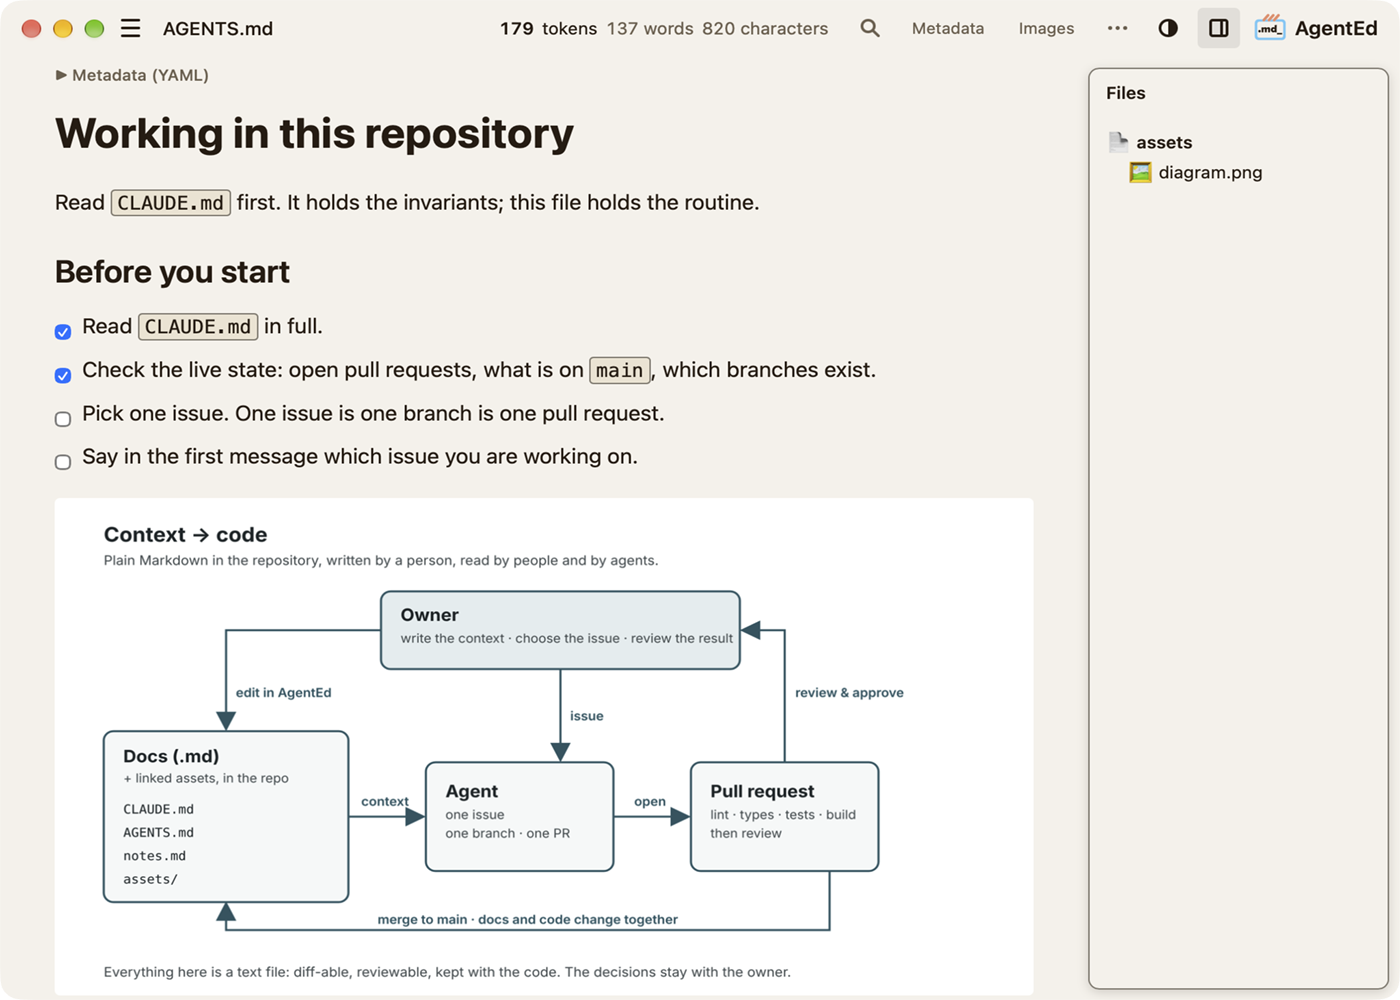
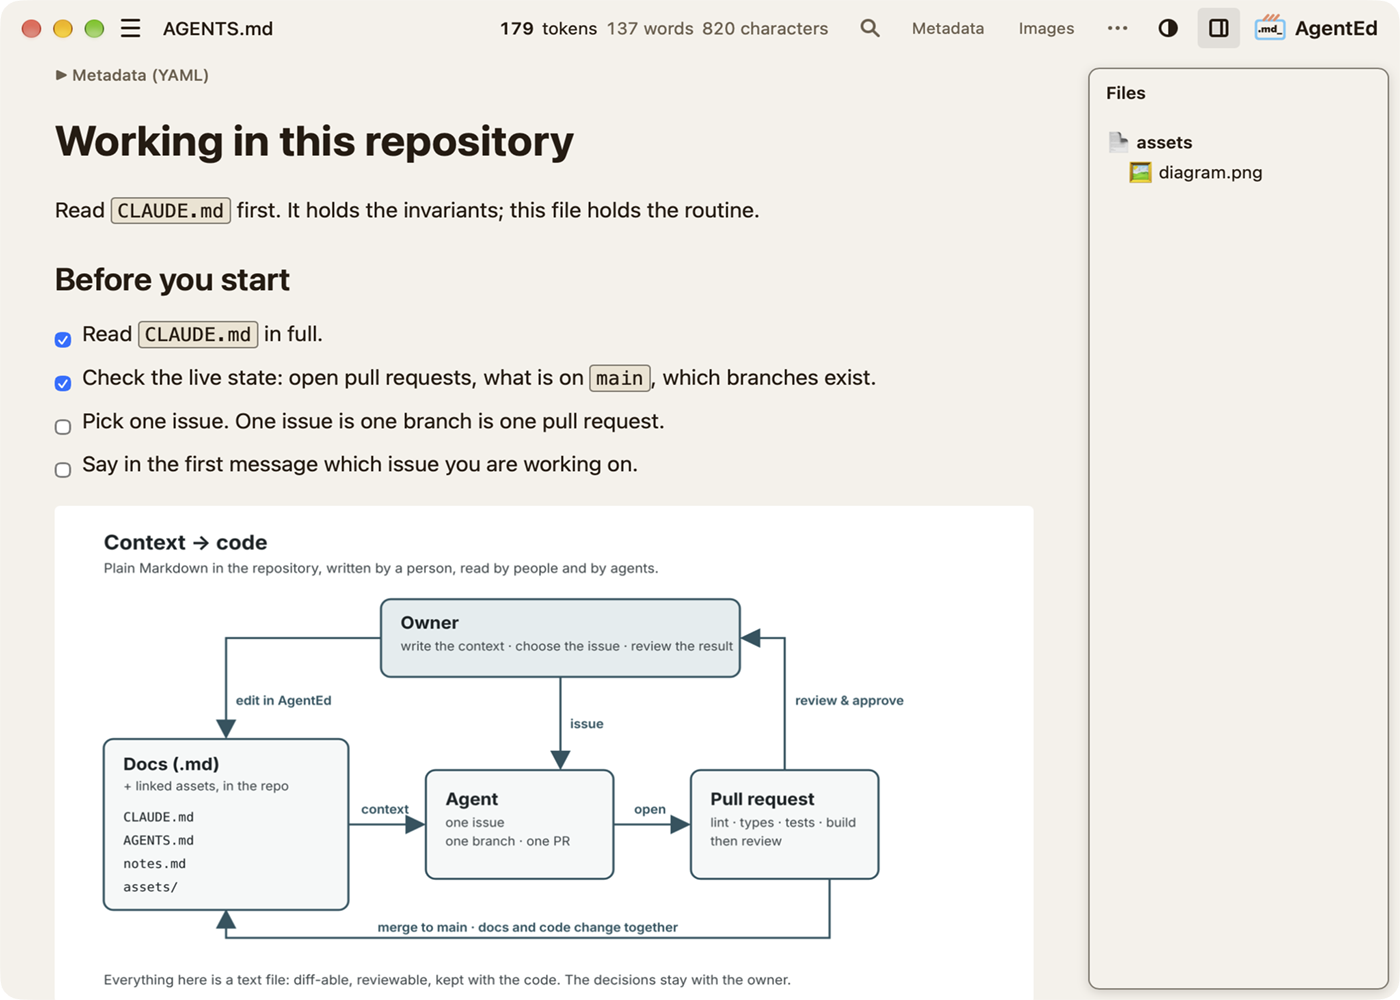
docs: new README images, and the documents pass of 1.0.2
For #713, the section added on 2026-11-14.

- docs/images: claude-md.gif (700 x 500, 120 frames, 30 s), claude-md.png
  and agents-checklist-diagram.png (1400 x 1000) replaced with the files
  the owner gave on 2026-11-14; the alt text of the GIF describes what it
  now shows.
- The 1.0.1 file names become 1.0.2: the README release line, table and
  the Windows, macOS and Linux commands; the three checksum commands of
  docs/INSTALL-RESTRICTED-NETWORKS.md; the placeholder of bug_report.yml.
- A For 1.0.2 paragraph in the install document, each point read from
  git diff v1.0.1 v1.0.2, with what the owner measured on 1.0.2 itself on
  2026-11-14. The README sentence on the macOS steps names 1.0.2, on the
  same Apple M2 on macOS 27.

diff --git a/README.md b/README.md
@@ -28,7 +28,7 @@ Create and refine notes, AI instructions, project context, and knowledge documen
 </div>
 
 <p align="center">
-  <img src="docs/images/claude-md.gif" width="700" alt="AgentEd formatting and editing CLAUDE.md with a live token estimate, then editing YAML in the Metadata panel of notes.md.">
+  <img src="docs/images/claude-md.gif" width="700" alt="AgentEd editing CLAUDE.md, with a sentence made bold from the floating toolbar and another typed while the token estimate updates; then a YAML value of SKILL.md changed in the Metadata panel; then AGENTS.md with its tasks ticked, a diagram inserted from the Insert menu and listed in the Files panel under assets, and the appearance menu open.">
 </p>
 
 [**See AgentEd in action · 1 minute**](https://agentedapp.com/#demo)
@@ -49,15 +49,15 @@ AgentEd helps you prepare documents for use with AI tools. **It does not include
 
 ## Download and get started
 
-**AgentEd 1.0.1** is available for Windows x64 and macOS on Apple Silicon, with an experimental package for Linux x86-64.
+**AgentEd 1.0.2** is available for Windows x64 and macOS on Apple Silicon, with an experimental package for Linux x86-64.
 
 [**Download the latest release**](https://github.com/cgxopen/AgentEd/releases/latest) for installers, release notes, and SHA-256 checksums. Earlier versions are on the [releases page](https://github.com/cgxopen/AgentEd/releases).
 
-| Platform | Installer for 1.0.1 | Status |
+| Platform | Installer for 1.0.2 | Status |
 |---|---|---|
-| Windows x64 | `AgentEd_1.0.1_x64-setup.exe` | Release |
-| macOS, Apple Silicon | `AgentEd_1.0.1_aarch64.dmg` | Release |
-| Linux x86-64 | `AgentEd_1.0.1_amd64.deb` | Experimental |
+| Windows x64 | `AgentEd_1.0.2_x64-setup.exe` | Release |
+| macOS, Apple Silicon | `AgentEd_1.0.2_aarch64.dmg` | Release |
+| Linux x86-64 | `AgentEd_1.0.2_amd64.deb` | Experimental |
 
 Windows is the primary development and testing platform. The macOS build is for Apple Silicon Macs; Intel-based Macs are not supported. The Linux package has been tested on Ubuntu 24.04 with GNOME and Wayland.
 
@@ -120,7 +120,7 @@ The steps below apply to warnings about an unrecognised or unverified applicatio
 <details>
 <summary><strong>Show Windows installation steps</strong></summary>
 
-Run `AgentEd_1.0.1_x64-setup.exe`.
+Run `AgentEd_1.0.2_x64-setup.exe`.
 
 The installer is not digitally signed. If Microsoft Defender SmartScreen displays **Windows protected your PC**, and you have verified the source and choose to continue, select **More info → Run anyway**, if that option is available.
 
@@ -137,9 +137,9 @@ See the illustrated [installation guide](https://agentedapp.com/installation-hel
 <details>
 <summary><strong>Show macOS installation steps</strong></summary>
 
-The macOS build is for Apple Silicon Macs (M1 and later). It is not notarized by Apple, so macOS blocks it the first time it opens. These steps were checked with AgentEd 1.0.0 on macOS 26.6 and 27, and with AgentEd 1.0.1 on macOS 27 on an Apple M2 on 2026-11-06.
+The macOS build is for Apple Silicon Macs (M1 and later). It is not notarized by Apple, so macOS blocks it the first time it opens. These steps were checked with AgentEd 1.0.0 on macOS 26.6 and 27, and with AgentEd 1.0.1 on 2026-11-06 and AgentEd 1.0.2 on 2026-11-14, each on macOS 27 on an Apple M2.
 
-1. Open `AgentEd_1.0.1_aarch64.dmg` and drag **AgentEd** into **Applications**. Launch it from Applications, not from the disk image.
+1. Open `AgentEd_1.0.2_aarch64.dmg` and drag **AgentEd** into **Applications**. Launch it from Applications, not from the disk image.
 2. macOS displays **“AgentEd” Not Opened** because it cannot verify the app. Click **Done**.
 3. Open **System Settings → Privacy & Security**, then scroll to **Security**. Find the message saying AgentEd was blocked and click **Open Anyway**.
 4. In the dialog that follows, click **Open Anyway**. Do not choose **Move to Trash** (**Move to Bin** in British English), the highlighted button, which removes the application.
@@ -169,7 +169,7 @@ The `.deb` package is for x86-64 systems. It requires **glibc 2.34 or later** an
 Download the package, check its SHA-256 checksum, then run this command from the folder containing it:
 
 ```sh
-sudo apt install ./AgentEd_1.0.1_amd64.deb
+sudo apt install ./AgentEd_1.0.2_amd64.deb
 ```
 
 AgentEd then appears among your applications. On the tested stock Ubuntu setup, it also becomes the application used to open Markdown files. You can choose another application using **Open With** in Files.

diff --git a/docs/INSTALL-RESTRICTED-NETWORKS.md b/docs/INSTALL-RESTRICTED-NETWORKS.md
@@ -9,6 +9,13 @@ This page is for teams that bring software into a closed network after a securit
 - **Help opens its windows, new since 1.0.0** ([#701](https://github.com/cgxopen/AgentEd/issues/701)). From the code, `src-tauri/src/help_window.rs` and `src-tauri/src/macos_windows.rs`: on Windows and Linux a help window is a second process of the same executable, started with one fixed argument, `--agented-help=shortcuts` or `--agented-help=guide`; on macOS it is a new window of the running process. The help text is bundled in the application, so no file is read or written to show it; the help window is otherwise an AgentEd window like any other, with the same settings as the rest. READING, not measured: an application control policy that allows the AgentEd executable allows the help too, since it starts no other program.
 - **Measured on 1.0.1 itself**, by the owner on 2026-11-06: installed on Windows, upgraded from 1.0.0 with apt on Ubuntu, and opened on macOS 27; About read `Version 1.0.1`, `Build 93edabc` on all three. Nothing else on this page was measured again; every other measurement below is of 1.0.0.
 
+**For 1.0.2** (`v1.0.2`, commit `52c5b3b`), what changed for this page since `v1.0.1`, each point read from `git diff v1.0.1 v1.0.2`:
+
+- **One runtime dependency changed: turndown, 7.2.4 to 7.2.5.** It is JavaScript shipped inside the application, listed in its third-party notices, so the update arrives in the installer and nothing is added beside it. The other moves in `package-lock.json` are development tools: Biome 2.6.4 to 2.6.6, Vite 8.3.5 to 8.3.6 and Vitest 5.0.5 to 5.1.0, with their packages. In `src-tauri/Cargo.lock` only the version of AgentEd moves.
+- **`src-tauri/tauri.conf.json` changes the version alone**, so the installer is built from the same configuration.
+- **No file under `src-tauri/src` changes**: the native part of 1.0.1, its help windows included, is the same.
+- **Measured on 1.0.2 itself**, by the owner on 2026-11-14: on Windows, with apt on Ubuntu, and on macOS 27 on an Apple M2; About read `Version 1.0.2`, `Build 52c5b3b` on all three. Nothing else on this page was measured again; every other measurement below is of 1.0.0.
+
 **How to read it.** Every statement about behaviour names where it was measured. The Windows measurements were made on 2026-11-04 in a VirtualBox 7.2.20 virtual machine running **Windows 10 Enterprise LTSC 10.0.19044**, installed with no network, as a user who is a local administrator, with the **WebView2 Runtime 156.0.4314.58**. The full records, with the scripts used, are on [issue #693](https://github.com/cgxopen/AgentEd/issues/693). Where something was read in source code rather than measured, or not measured at all, this page says so.
 
 ## 1. What AgentEd does on the network
@@ -114,9 +121,9 @@ The last page also has **Run AgentEd** ticked by default; the first launch creat
 
 Each release publishes a `.sha256` file beside every asset and a combined `SHA256SUMS.txt`. Compare the hash of your download with the published line:
 
-- Windows PowerShell: `Get-FileHash AgentEd_1.0.1_x64-setup.exe -Algorithm SHA256`
-- macOS: `shasum -a 256 AgentEd_1.0.1_aarch64.dmg`
-- Linux: `sha256sum AgentEd_1.0.1_amd64.deb`
+- Windows PowerShell: `Get-FileHash AgentEd_1.0.2_x64-setup.exe -Algorithm SHA256`
+- macOS: `shasum -a 256 AgentEd_1.0.2_aarch64.dmg`
+- Linux: `sha256sum AgentEd_1.0.2_amd64.deb`
 
[1 lines of base64/hex data omitted]
 
